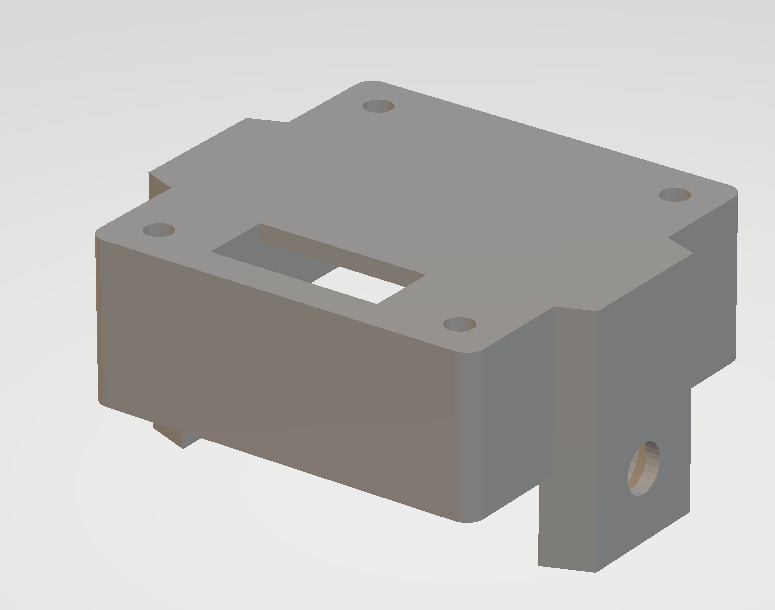
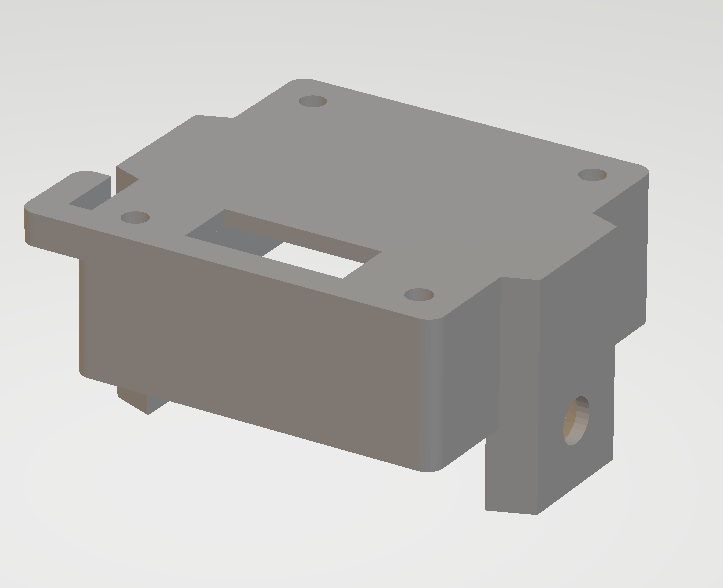
Erweiterung

diff --git a/BambiKamV6/README.md b/BambiKamV6/README.md
@@ -1,4 +1,4 @@
-# BambiKam V6 (BETA) 28.07.2018
+# BambiKam V6 (BETA) 1.8.2018
 
 > Wichtig: V6 ist derzeit noch im BETA-Stadium. Deshalb sind auch die Bilder noch nicht aktuell.
 - [Was ist BambiKam?](#was-ist-bambikam)
@@ -50,7 +50,7 @@ BambiKam wurde für die Rehkitzsuche (siehe auch [Rehkitzrettung Schweiz](https:
 
 ## Was zeichnet BambiKam aus?
 
-- Inklusive Kamera, Sender und Antenne beträgt das Gewicht weniger als 60 Gramm. ![Gewicht](bilder/BambiKam_Gewicht.jpg)
+- Inklusive Kamera, Sender und Antenne beträgt das Gewicht weniger als 65 Gramm. ![Gewicht](bilder/BambiKam_Gewicht.jpg)
 - Durch das Anbringen der Kamera, Sender und Antenne auf der Seite kann auf Fussverlängerungen verzichtet werden. Dies spart ebenfalls Gewicht und macht die Drohne nicht höher.
 - Durch die einfache Befestigung der Grundplatte an den hinteren Landekufen der Mavic ist es ganz einfach, die BambiKam zu entfernen und die Drohne als ganz normale Drohne zu verwenden.
 - Die Grundplatte hat Löcher, welche die Sensoren der Mavic nicht beeinträchtigen. So ist es möglich, auch nach dem Anbringen der BambiKam, die Mavic mit Hilfe der Sensoren zu landen.
@@ -115,7 +115,7 @@ TODO: Braucht es da spezielle Einstellungen?
 
 ![BambiKam_Transmittergehaeuse.png](bilder/BambiKam_Transmittergehaeuse.png)
 
-Das STL [BambiKam_Transmittergehaeuse.stl](plan/BambiKam_Transmittergehaeuse.stl) kann mit dem 3D-Drucker ausgedruckt werden.
+Das STL [BambiKam_Transmittergehaeuse.stl](plan/BambiKam_V6_Transmittergehaeuse.stl) kann mit dem 3D-Drucker ausgedruckt werden.
 
 ### Kleben der einzelnen Elemente
 
@@ -151,19 +151,20 @@ Die Kamera kann erst nach der Montage der Kamerahalterung montiert werden. Die K
 Der Sender kann auf zwei Arten montiert werden
 
 #### Montage mit Gehäuse
+
 Der Sender wird in das Gehäuse eingeschoben, wobei darauf geachtet werden muss, dass die quadratische Fläche um das Antennengewinde plan mit dem Gehäuse ist. Die holzige Unterlagscheibe, welche schon flachgeschliffen wurde, am Mast anbringen und gut anziehen. Die Antenne soll dabei nach vorne zeigen.
 
- *Es ist wichtig, dass die Antenne während des Betriebes nicht abfallen kann. Wird der Sender ohne Antenne betrieben, kann dieser beschädigt werden.*
+>Es ist wichtig, dass die Antenne während des Betriebes nicht abfallen kann. Wird der Sender ohne Antenne betrieben, kann dieser beschädigt werden.
 
 #### Montage ohne Gehäuse
 
 Die holzige Unterlagscheibe, welche schon flachgeschliffen wurde, am Mast anbringen und gut anziehen. Die Antenne soll dabei nach vorne zeigen.
 
-*Es ist wichtig, dass die Antenne während des Betriebes nicht abfallen kann. Wird der Sender ohne Antenne betrieben, kann dieser beschädigt werden.*
+>Es ist wichtig, dass die Antenne während des Betriebes nicht abfallen kann. Wird der Sender ohne Antenne betrieben, kann dieser beschädigt werden.
 
 ### Verlegen der Kabel
 
-Die Kabel können durch den doppelt vorhandenen Abstandhalter gelegt werden und der Einfachheit halber einfach mit einem Streifen Klebeband befestigt werden.
+Die Kabel des Transmitters können durch die Lasche am Transmittergehäuse und jene der Kamera durch die Lasche am Kameragehäuse geführt werden. Weiter durch den doppelt vorhandenen Abstandhalter gelegt werden und der Einfachheit halber mit zwei Kabelbindern befestigt werden.
 
 ## Anbringen der Grundplatte an den Kopter
 
